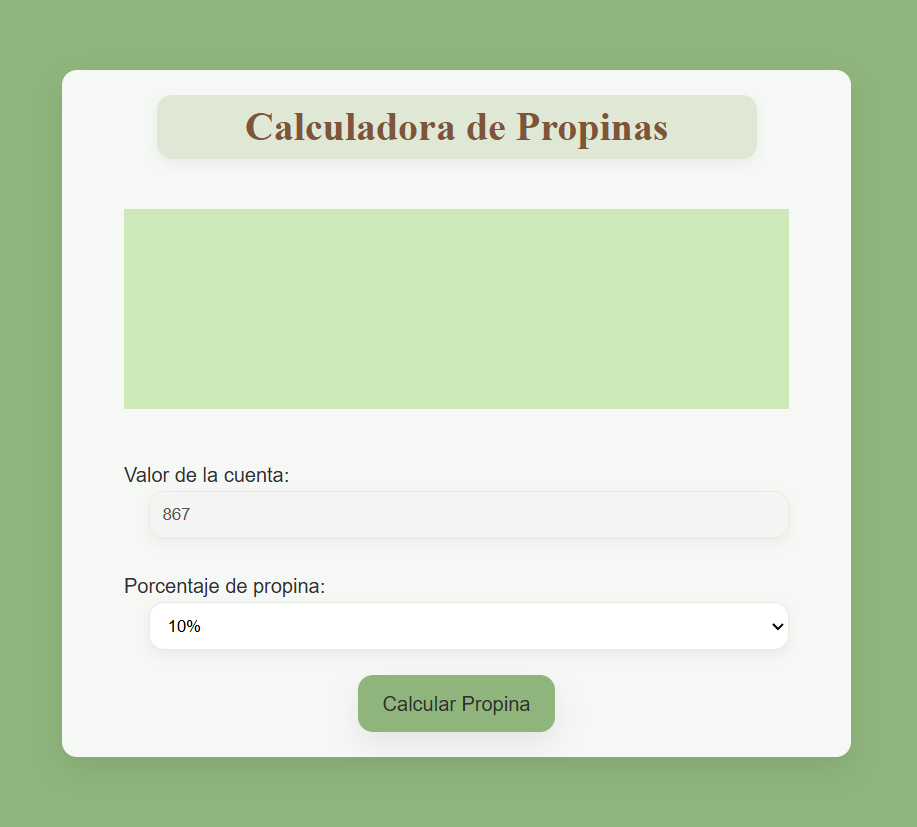
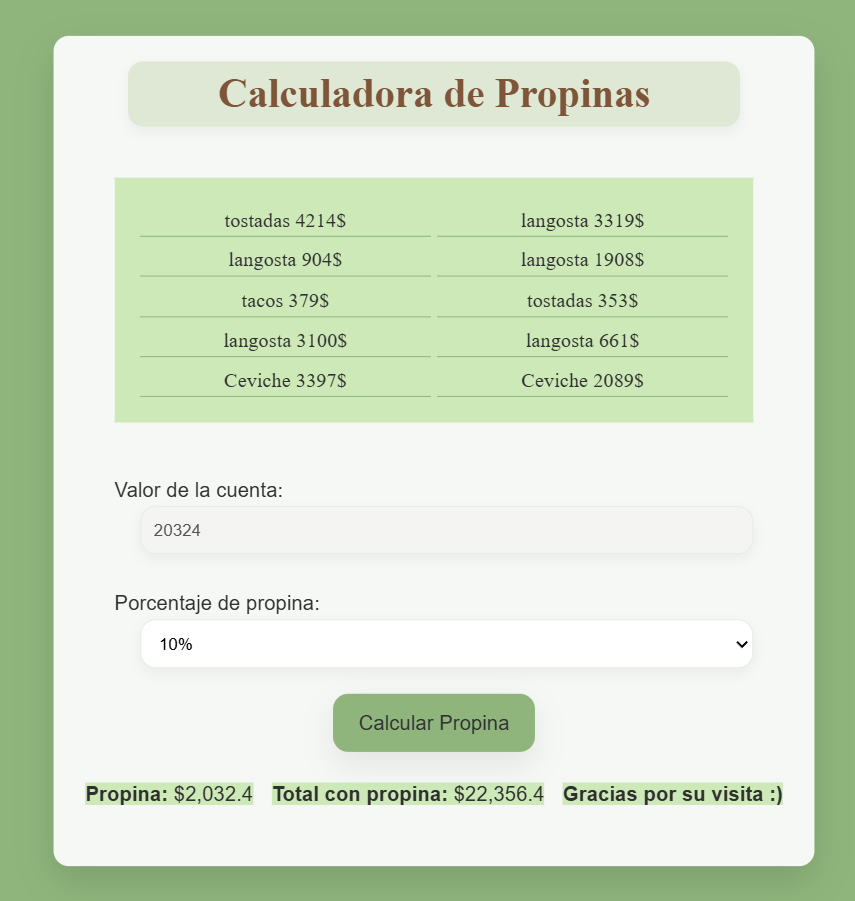
cambios finales

Changed region(s): [[0.0608, 0.0302, 0.9731, 0.9674], [0.1216, 0.6651, 0.3649, 0.786]]

diff --git a/js/UI.js b/js/UI.js
@@ -24,6 +24,10 @@ const CrearElemento = (etiqueta, propiedades = {}, hijos = []) => {
     return el;
 };
 
+const randomNumber = () => Math.floor(Math.random() * 5200);
+const menu = ["Pulpo encebollado", "Ceviche", "langosta", "tlacoyos", "tacos", "tostadas"];
+const randomMenu = () => menu[Math.floor(Math.random() * menu.length)];
+
 const CrearCart = () => {
     const contenedor = document.querySelector('.contenedor');
     
@@ -31,8 +35,22 @@ const CrearCart = () => {
     contenedor.innerHTML = '';
 
     const ui = [
+
         CrearElemento('h1', { textContent: 'Calculadora de Propinas' }),
-        CrearElemento('div', { class: 'contenido' }),
+        CrearElemento('div', { class: 'contenido' }, [
+            CrearElemento('p', { class: 'cuenta', textContent: `${randomMenu()} ${randomNumber()}$`}),
+            CrearElemento('p', { class: 'cuenta', textContent: `${randomMenu()} ${randomNumber()}$`}),
+            CrearElemento('p', { class: 'cuenta', textContent: `${randomMenu()} ${randomNumber()}$`}),
+            CrearElemento('p', { class: 'cuenta', textContent: `${randomMenu()} ${randomNumber()}$`}),
+            CrearElemento('p', { class: 'cuenta', textContent: `${randomMenu()} ${randomNumber()}$`}),
+            CrearElemento('p', { class: 'cuenta', textContent: `${randomMenu()} ${randomNumber()}$`}),
+            CrearElemento('p', { class: 'cuenta', textContent: `${randomMenu()} ${randomNumber()}$`}),
+            CrearElemento('p', { class: 'cuenta', textContent: `${randomMenu()} ${randomNumber()}$`}),
+            CrearElemento('p', { class: 'cuenta', textContent: `${randomMenu()} ${randomNumber()}$`}),
+            CrearElemento('p', { class: 'cuenta', textContent: `${randomMenu()} ${randomNumber()}$`}),
+
+        ]),
+
         CrearElemento('div', { class: 'ContenedorInputs' }, [
             CrearElemento('label', { for: 'valorCuenta', textContent: 'Valor de la cuenta:' }),
             CrearElemento('input', { type: 'number', class: 'input', id: 'valorCuenta', placeholder: 'su cuenta es de: $$$ ' }),
@@ -45,8 +63,11 @@ const CrearCart = () => {
         CrearElemento('div', { class: 'boton', id: 'calculateBtn', textContent: 'Calcular Propina' }),
         CrearElemento('div', { id: 'result' })
     ];
-
     contenedor.append(...ui);
 };
 
 document.addEventListener('DOMContentLoaded', CrearCart);
+
+
+
+

diff --git a/js/cuenta.js b/js/cuenta.js
@@ -1,7 +1,24 @@
 
-const cantidadAPagar = Math.floor(Math.random() * 30000);
-
 document.addEventListener('DOMContentLoaded', () => {
+
+const ticket = document.querySelectorAll('.cuenta');
+console.log(ticket)
+
+const cantidadAPagar = () => {
+    let total = 0;
+    ticket.forEach((dom) => {
+    // Usamos una expresión regular para quedarnos solo con los números
+    // .match(/\d+/) busca el primer grupo de números que encuentre
+    let soloNumeros = dom.textContent.match(/\d+/); 
+    
+    if (soloNumeros) {
+        total += parseInt(soloNumeros[0]);
+    }
+});
+
+    return total
+}
+
     // 1. Buscamos los elementos una vez que el DOM está listo
     // (Asegurándonos de que UI.js ya los creó)
     const btn = document.querySelector('#calculateBtn');
@@ -10,7 +27,7 @@ document.addEventListener('DOMContentLoaded', () => {
     const resultado = document.querySelector('#result');
 
     if (input) {
-        input.value = cantidadAPagar;
+        input.value = cantidadAPagar();
         input.disabled = true;
     }
 
@@ -32,8 +49,8 @@ document.addEventListener('DOMContentLoaded', () => {
                 resultado.innerHTML = `
                     <p class='ticket'><strong>Propina:</strong> $${propina.toLocaleString()}</p>
                     <p class='ticket'><strong>Total con propina:</strong> $${total.toLocaleString()}</p>
-                    <p class='ticket'><strong>Gracias por su visita :)</strong></p>
-                `;
+                    <p class='ticket'><strong>Gracias por su visita :)</strong></p>`;
+                document.querySelectorAll('.ticket').forEach((tik)=>{tik.style.display = 'inline'})
             }
         });
     }

diff --git a/css/style.css b/css/style.css
@@ -10,7 +10,6 @@
 
   /* =========================
      COLORES BASE
-     Paleta pistache + madera
   ========================= */
 
   --color-bg: #f6f8f5;
@@ -87,14 +86,16 @@ body {
   background-color: var(--color-pistache-strong);
   color: var(--color-text);
   line-height: 1.6;
+  display: flex;
+  justify-content: center;
 }
 
 
 .contenedor {
     background-color: var(--color-bg);
     border-radius: var(--border-radius);
-    max-width: 1200px;
-    max-height: 1500px;
+    max-width: 700px;
+    height: auto;
     padding: 20px;
     margin: 4em;
     box-shadow: var(--shadow-medium);
@@ -123,13 +124,12 @@ body {
 
 .contenido {
     background-color: var(--color-pistache-suave);
-    display: flex;
-    flex-direction: column;
-    align-content: center;
-    align-items: center;
-    gap: 20px;
+    display: grid;
+    grid-template-columns: 1fr 1fr;
+    padding: 20px;
+    gap: 5px;
     width: 90%;
-    height: 10em;
+    max-height: 100em;
     margin: 20px auto;
 }
 
@@ -186,4 +186,17 @@ tikest de pago
    background-color: var(--color-pistache-suave);
    margin: 5px;
    text-align: center;
+   display: none;
+   display: none;
 }
+
+/* =========================
+     cuenta
+  ========================= */
+
+  .cuenta {
+    text-align: center;
+    border-bottom: solid 1px var(--color-pistache-strong);
+    font-family: var(--font-title);
+  }
+
